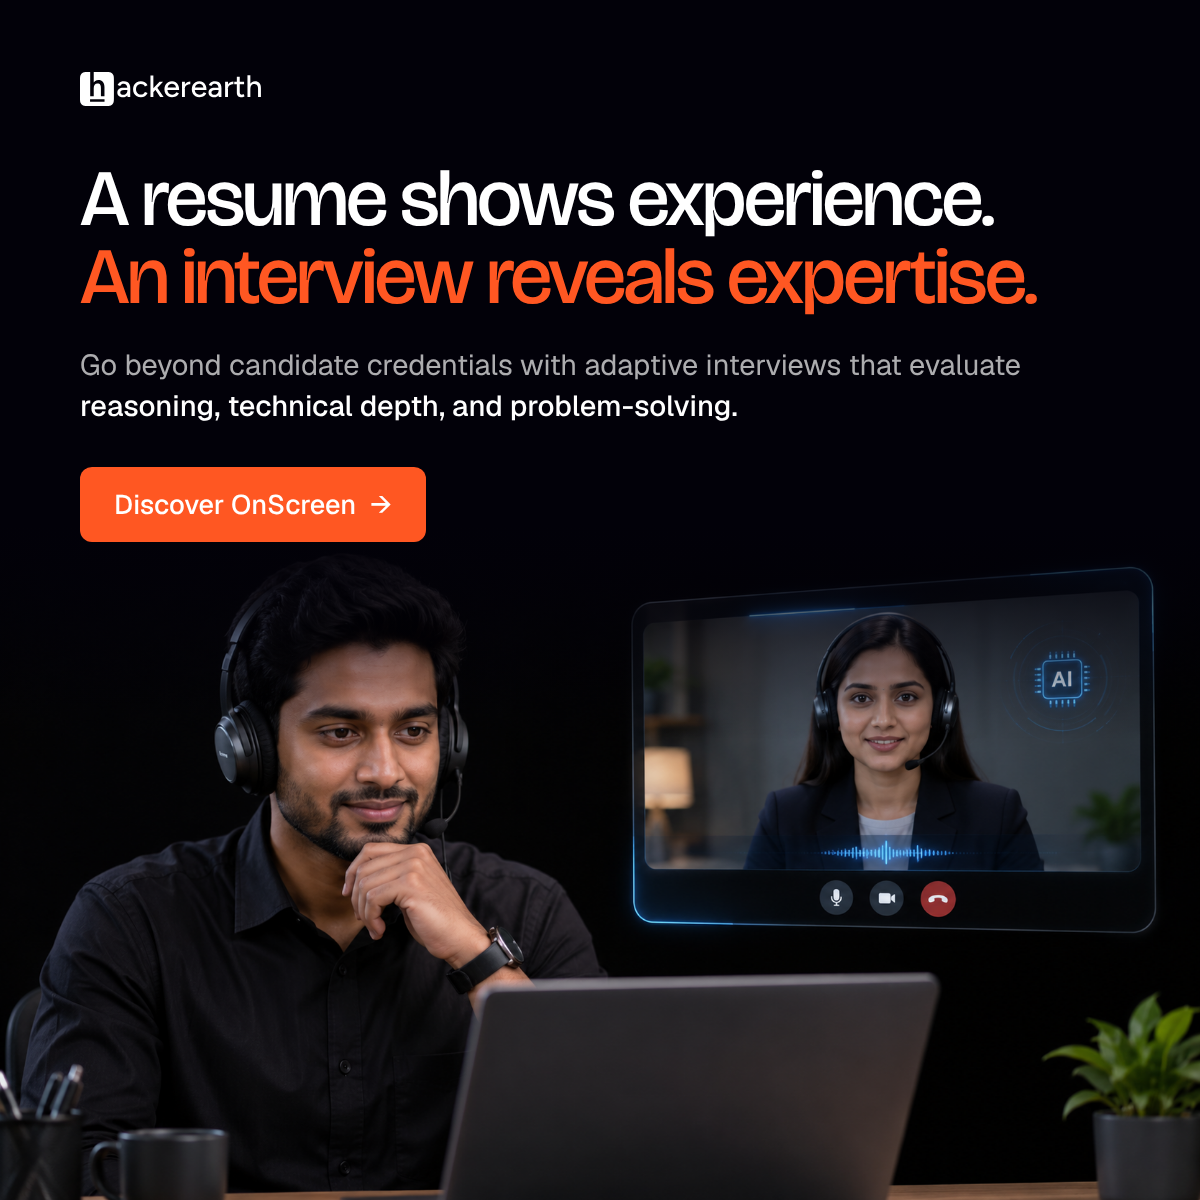
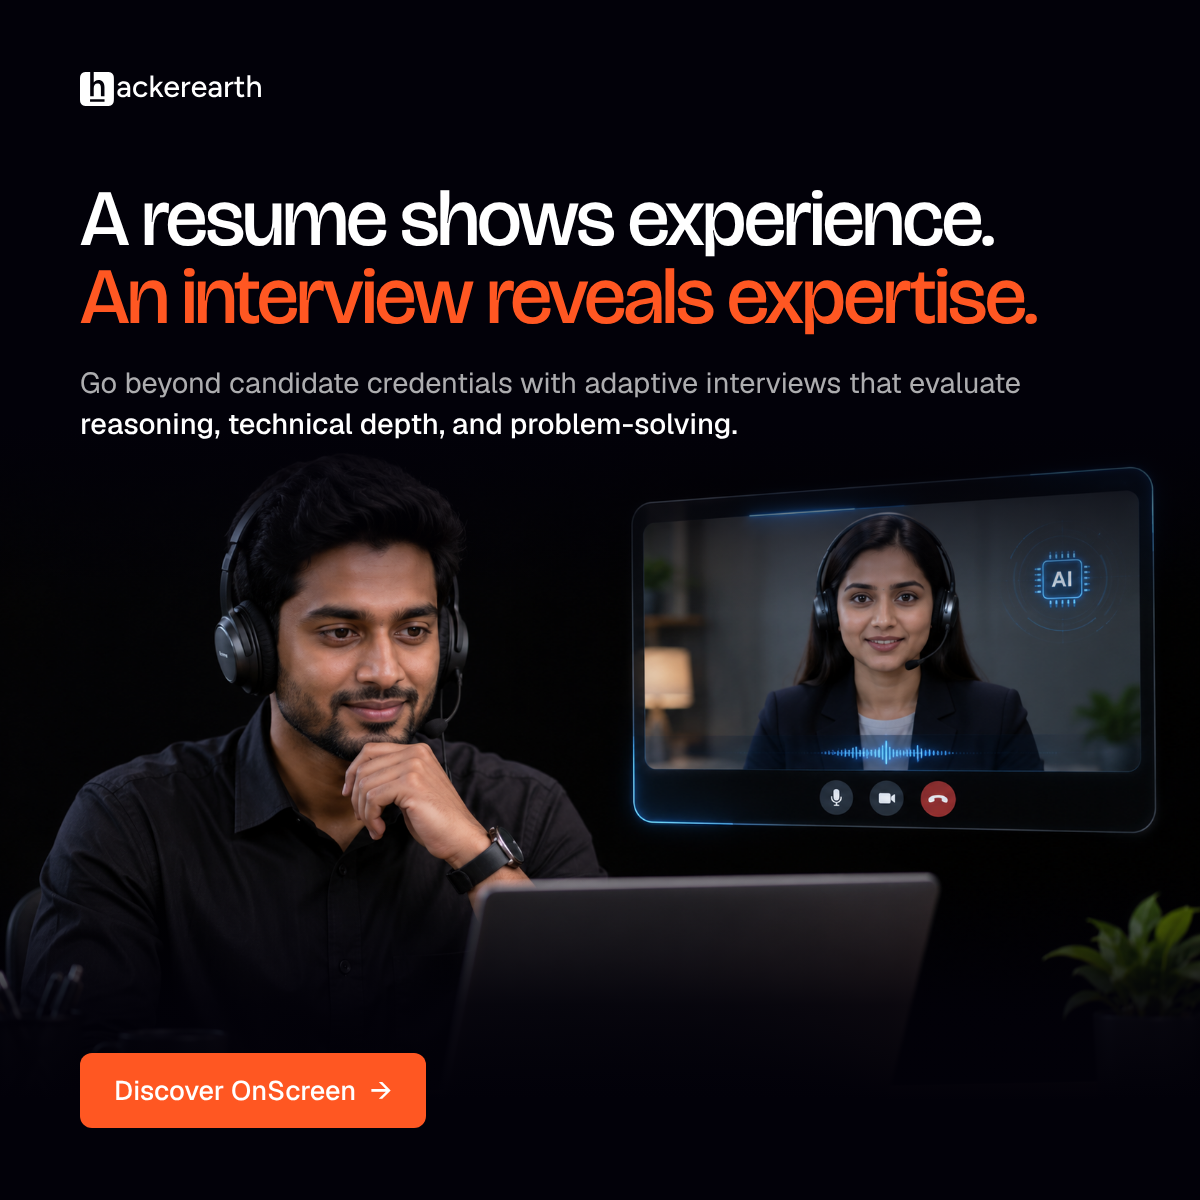
LinkedIn static post: move CTA to bottom, rebalance layout
Claude-Session: https://claude.ai/code/session_011WvSfdXWh4koNY7sQ51yCa

diff --git a/onscreen-carousel/linkedin-static.html b/onscreen-carousel/linkedin-static.html
@@ -81,12 +81,14 @@
   .mono-label { font-family: var(--mono); font-size: 16px; letter-spacing: 1.6px; text-transform: uppercase; color: rgba(2,1,9,0.45); }
 
   
-  .p .content { position: absolute; top: 160px; left: 80px; right: 80px; z-index: 3; }
-  .p h2 { font-size: 80px; line-height: 0.98; letter-spacing: -2.6px; margin-bottom: 28px; }
+  .p .content { position: absolute; top: 180px; left: 80px; right: 80px; z-index: 3; }
+  .p h2 { font-size: 80px; line-height: 0.98; letter-spacing: -2.6px; margin-bottom: 26px; }
   .p .lead { font-size: 29px; max-width: 1000px; }
-  .btn { display: inline-flex; align-items: center; gap: 14px; margin-top: 40px; background: var(--cta); color: #fff; font-weight: 500; font-size: 27px; padding: 20px 34px; border-radius: 12px; }
-  .hero { position: absolute; left: 0; bottom: 0; width: 1200px; height: 676px; object-fit: cover; }
-  .fade { position: absolute; left: 0; right: 0; bottom: 0; height: 676px; background: linear-gradient(180deg, #020109 0%, rgba(2,1,9,0.55) 14%, rgba(2,1,9,0) 32%); }
+  .hero { position: absolute; left: 0; top: 424px; width: 1200px; height: 676px; object-fit: cover; }
+  .fade { position: absolute; left: 0; right: 0; top: 424px; height: 676px; background:
+      linear-gradient(180deg, #020109 0%, rgba(2,1,9,0.5) 12%, rgba(2,1,9,0) 28%, rgba(2,1,9,0) 66%, rgba(2,1,9,0.85) 86%, #020109 100%); }
+  .foot { position: absolute; left: 80px; right: 80px; bottom: 72px; z-index: 3; display: flex; align-items: center; justify-content: space-between; }
+  .btn { display: inline-flex; align-items: center; gap: 14px; background: var(--cta); color: #fff; font-weight: 500; font-size: 27px; padding: 20px 34px; border-radius: 12px; }
 </style>
 </head>
 <body>
@@ -98,8 +100,8 @@
   <div class="content">
     <h2>A resume shows experience.<br><em>An interview reveals expertise.</em></h2>
     <p class="lead">Go beyond candidate credentials with adaptive interviews that evaluate <strong>reasoning, technical depth, and problem-solving.</strong></p>
-    <span class="btn">Discover OnScreen <span>→</span></span>
   </div>
+  <div class="foot"><span class="btn">Discover OnScreen <span>→</span></span></div>
 </section>
 
 </body>
